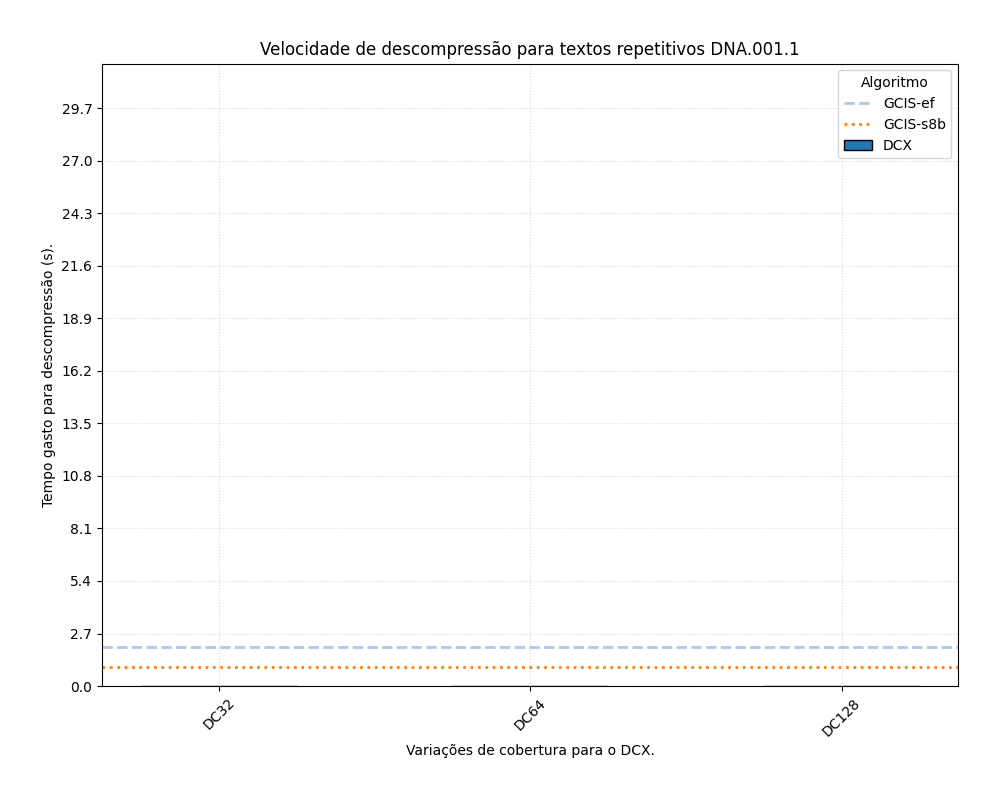
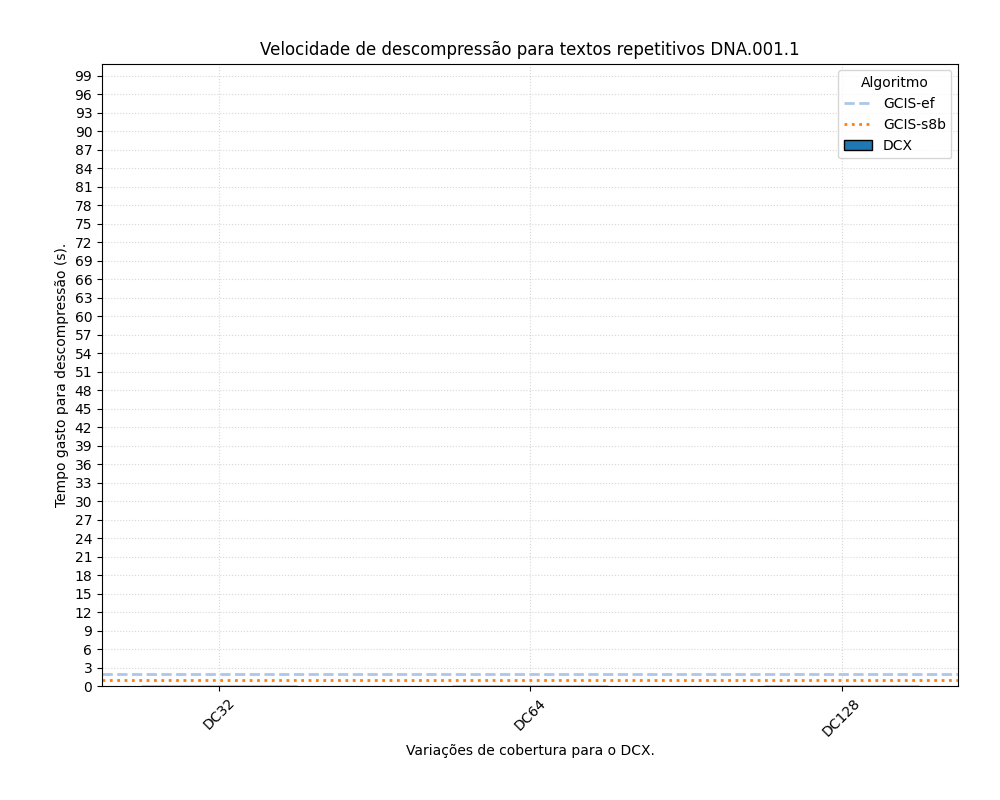
graphs

Changed region(s): [[0.062, 0.7812, 0.961, 0.8438], [0.031, 0.0938, 0.093, 0.75], [0.062, 0.8438, 0.093, 0.875]]

diff --git a/scripts/plotting.py b/scripts/plotting.py
@@ -39,8 +39,8 @@ def generate_chart(results_dcx, results_gcis, information, output_dir, max_value
         j+=1
 
     customize_chart(information, f"{information['title']} {results_dcx.index[0].upper()}", "Algoritmo")
-    plt.yticks(np.arange(0, max_value+5, max_value/10))
-    plt.ylim(0, max_value+5)
+    plt.yticks(np.arange(0, 100, 3))
+    plt.ylim(0, 101)
 
     file = f"{output_dir}/{information['output_file']}-{results_dcx.index[0]}.png"
     plt.savefig(file)
